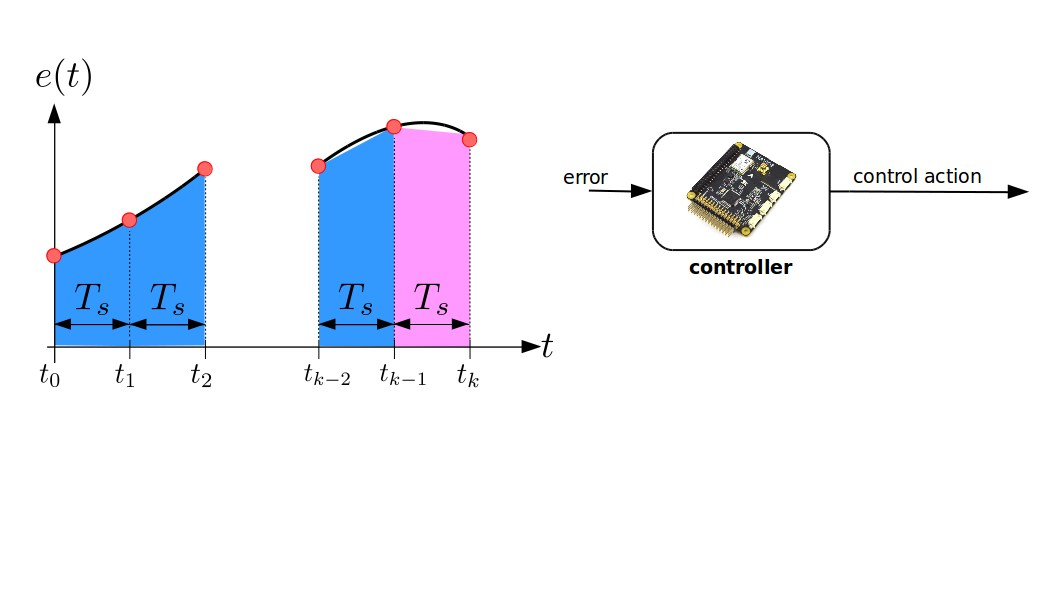
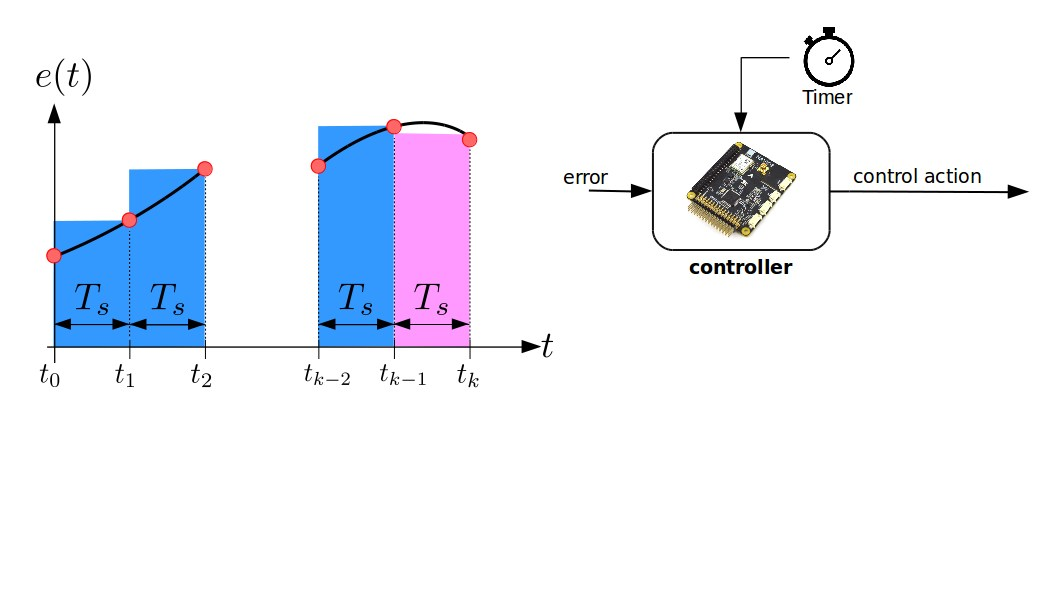
:hammer: updated course updated discrete-time PID imgs

diff --git a/index.html b/index.html
@@ -1,5 +1,10 @@
 <!doctype html>
-<!--
+<html lang="en">
+
+<head>
+  <meta charset="utf-8">
+
+  <!--
   Copyright 2019 Pantelis Sopasakis
 
   This work is licensed under the Attribution 4.0 International CC licence 
@@ -28,15 +33,11 @@
     for your intended use. For example, other rights such as publicity, privacy, or moral 
     rights may limit how you use the material.
 
--->
-<html lang="en">
-
-<head>
-  <meta charset="utf-8">
+  -->
 
   <title>PID and its Software Implementation</title>
 
-  <meta name="viewport" content="width=device-width, initial-scale=1.0, maximum-scale=1.0, user-scalable=no">
+  <meta name="viewport" content="width=device-width">
 
   <link rel="stylesheet" href="lib/js/reveal/css/reveal.css">
   <link rel="stylesheet" href="lib/js/reveal/lib/css/zenburn.css">
@@ -60,9 +61,13 @@
     <div class="slides">
 
       <section>
+        <div style="margin-top: 2em"> </div>
         <h1>The PID Controller</h1>
         <div style="margin-top: 1em;text-align:center; color:var(--my_blue)">
           and its Software Implementation
+        </div>
+        <div style="margin-top: 2em;text-align:center; color:var(--my_lightgray)">
+          a gentle introduction
         </div>
         <div style="margin-top: 2em;text-align:center;">
           <a href="https://alphaville.github.io" target="blank" style="color:black; text-decoration: none">Pantelis
@@ -88,20 +93,20 @@
       <section data-background-image="img/shower.jpg" data-background-size="contain">
       </section>
 
-      <section data-background-image="img/shower.jpg" data-background-size="contain" data-background-opacity="var(--bck_opacity)">
-        <div style="margin-top: 10%; font-size:1.em; text-align: left; color: black">
+      <section data-background-image="img/shower.jpg" data-background-size="contain" data-background-opacity="var(--bck_opacity_high)">
+        <div style="margin-top: 10%; font-size:1.0em; text-align: left; color: black">
           Define (error) = (set point) - (measurement), that is
         </div>
-        <div style="margin-top: 1em; font-size:1.em; text-align: left; color: black">
+        <div style="margin-top: 1em; font-size:1.0em; text-align: left; color: black">
           $$e(t) = y^{\mathrm{sp}}(t) - y(t)$$
         </div>
-        <div style="margin-top: 1em; font-size:1.em; text-align: left; color: black">
+        <div style="margin-top: 1em; font-size:1.0em; text-align: left; color: black">
           If <span style="color:var(--my_green)">$e(t){}={}0$</span> (perfect!) $\Rightarrow$ enjoy!
         </div>
-        <div style="margin-top: 1em; font-size:1.em; text-align: left; color: black">
+        <div style="margin-top: 1em; font-size:1.0em; text-align: left; color: black">
           If <span style="color:var(--my_blue)">$e(t){}>{}0$</span> (too cold!) $\Rightarrow$ warm up
         </div>
-        <div style="margin-top: 1em; font-size:1.em; text-align: left; color: black">
+        <div style="margin-top: 1em; font-size:1.0em; text-align: left; color: black">
           If <span style="color:var(--my_red)">$e(t) {}&lt;{} 0$</span> (too hot!) $\Rightarrow$ cool down
         </div>
       </section>
@@ -110,26 +115,34 @@
       <section data-background-image="img/car.jpg" data-background-size="contain">
       </section>
 
-      <section data-background-image="img/car.jpg" data-background-size="contain" data-background-opacity="var(--bck_opacity)">
-        <div style="margin-top: 10%; font-size:1.em; text-align: left; color: black">
+      <section data-background-image="img/car.jpg" data-background-size="contain" data-background-opacity="var(--bck_opacity_high)">
+        <div style="margin-top: 10%; font-size:1.0em; text-align: left; color: black">
           Define (error) = (set point) - (measurement), that is
         </div>
-        <div style="margin-top: 1em; font-size:1.em; text-align: left; color: black">
+        <div style="margin-top: 1em; font-size:1.0em; text-align: left; color: black">
           $$e(t) = y^{\mathrm{sp}}(t) - y(t)$$
         </div>
-        <div style="margin-top: 1em; font-size:1.em; text-align: left; color: black">
+        <div style="margin-top: 1em; font-size:1.0em; text-align: left; color: black">
           If <span style="color:var(--my_green)">$e(t){}={}0$</span> (perfect!) $\Rightarrow$ keep going!
         </div>
-        <div style="margin-top: 1em; font-size:1.em; text-align: left; color: black">
+        <div style="margin-top: 1em; font-size:1.0em; text-align: left; color: black">
           If <span style="color:var(--my_blue)">$e(t){}>{}0$</span> (too slow!) $\Rightarrow$ speed up
         </div>
-        <div style="margin-top: 1em; font-size:1.em; text-align: left; color: black">
+        <div style="margin-top: 1em; font-size:1.0em; text-align: left; color: black">
           If <span style="color:var(--my_red)">$e(t) {}&lt;{} 0$</span> (too fast!) $\Rightarrow$ slow down
         </div>
       </section>
 
-      <section data-background-image="img/airplane.jpg" data-background-size="contain">
+      <section>
+        <section data-background-image="img/track.jpg" data-background-size="contain">
+        </section>
+        <section data-background-image="img/airplane.jpg" data-background-size="contain">
+        </section>
       </section>
+
+
+      <!-- 
+      -->
 
       <!-- 
         
@@ -144,8 +157,6 @@
         </div>
       </section>
 
-      <section data-background-image="img/track.jpg" data-background-size="contain">
-      </section>
 
       <section data-background-video="mov/P/p-concept.mp4" data-background-video-loop="loop" data-background-size="contain"
         data-background-video-muted="true">
@@ -157,12 +168,12 @@
         <div style="margin-top: 20%; font-size:2em; color:black; text-align:center;">
           Steering is <span style="color:var(--my_red)">proportional</span> to <span style="color:var(--my_red)">error</span>
         </div>
-        </span>
-        <span class="fragment fade-up" data-fragment-index="2" style="position:absolute; margin-left: auto; margin-right: auto; left: 0; right: 0;">
+
+        <div class="fragment fade-up" data-fragment-index="2" style="position:absolute; margin-left: auto; margin-right: auto; left: 0; right: 0;">
           <div style="margin-top: 5%; font-size:1.8em; color:black; text-align:center;">
             $$u(t) = K_p e(t)$$
           </div>
-        </span>
+        </div>
       </section>
 
       <section data-background-video="mov/P/P_K0.01.mp4" data-background-video-loop="loop" data-background-size="contain"
@@ -357,10 +368,13 @@
       <section data-background-video="mov/PID/PID_offset_noint.mp4" data-background-video-loop="loop"
         data-background-size="contain" data-background-video-muted="true" data-background-opacity="var(--bck_opacity)">
         <div style="margin-top: 10%; font-size:2em; color:black; text-align:center;">
-          Offset = 0.8m
+          Offset = $ \lim_{t\to\infty} e(t)$ = 0.8m
         </div>
-        <div class="fragment" style="margin-top: 1em; font-size:1em; color:black; text-align:center;">
-          Define <span style="color:var(--my_red)">$I(t) = \int_0^t e(\tau)\mathrm{d}\tau$</span>
+        <div class="fragment" style="margin-top: 2em; font-size:1em; color:black; text-align:center;">
+          We must eliminate the offset!
+        </div>
+        <div class="fragment" style="margin-top: 2em; font-size:1em; color:black; text-align:center;">
+          Define <span style="color:var(--my_green)">$I(t) = \int_0^t e(\tau)\mathrm{d}\tau$</span>
         </div>
       </section>
 
@@ -381,9 +395,9 @@
       <section data-background-video="mov/PID/PID_offset_int.mp4" data-background-video-loop="loop"
         data-background-size="contain" data-background-video-muted="true" data-background-opacity="var(--bck_opacity)">
         <div style="margin-top: 15%; font-size:1.5em; color:black; text-align:center;">
-          Let's plug the <span style="color:var(--my_red)">integral</span> into the controller...
+          Let's plug the <span style="color:var(--my_green)">integral</span> into the controller...
         </div>
-        <div style="margin-top: 1em; font-size:1.5em; color:black; text-align:center;">
+        <div style="margin-top: 1.5em; font-size:1.5em; color:black; text-align:center;">
           $u(t)$ ${}={}$ <span style="color:var(--my_lightblue)">$K_p e(t)$</span> ${}+{}$ <span style="color:var(--my_red)">$K_d
             \dot{e}(t)$</span> ${}+{}$ <span style="color:var(--my_green)">$K_i I(t)$</span>
         </div>
@@ -426,10 +440,20 @@
         </div>
       </section>
 
-      <section data-background-image="img/discrete3.jpg" data-background-size="contain">
-        <div style="font-size:1.0em; text-align: left; color: magenta; margin-top: 50%">
-          $$\int_{t_{k-1}}^{t_k}e(\tau)\mathrm{d}\tau \approx T_s e(t_k)$$
-        </div>
+      <section>
+        <section data-background-image="img/discrete3.jpg" data-background-size="contain">
+          <div style="font-size:1.0em; text-align: left; color: magenta; margin-top: 50%">
+            $$\int_{t_{k-1}}^{t_k}e(\tau)\mathrm{d}\tau \approx T_s e(t_k)$$
+          </div>
+        </section>
+        <section data-background-image="img/discrete3b.jpg" data-background-size="contain">
+          <div style="font-size:1.0em; text-align: center; color: magenta; margin-top: 50%">
+            $$\int_{t_{k-1}}^{t_k}e(\tau)\mathrm{d}\tau \approx \tfrac{T_s}{2} (e(t_k) - e(t_{k-1})$$
+          </div>
+          <div style="font-size:0.5em; text-align: center; color: black; margin-top: 1em">
+            (See Homework...)
+          </div>
+        </section>
       </section>
 
       <section data-background-image="img/discrete5.jpg" data-background-size="contain">
@@ -438,7 +462,27 @@
         </div>
       </section>
 
-      <section>
+      <section data-transition="none">
+        <h1>Discrete-time PID</h1>
+        <div style="margin-top: 10%; font-size:1.0em; text-align: left; color: black">
+          Discrete-time PID controller
+        </div>
+        <div style="font-size:1.0em; text-align: left; color: black">
+          $\begin{align}u(t_k) ={}& \underbrace{K_p e(t_k)}_{\text{Prop.}}
+          +
+          \underbrace{K_d \frac{e(t_k) - e(t_{k-1})}{T_s}}_{\text{Deriv. Approx.}}
+          +
+          \underbrace{
+          K_i
+          \sum_{i=0}^{k}
+          T_s e(t_i)
+          }_{\text{Integral Approx.}}
+          \end{align}$
+        </div>
+
+      </section>
+
+      <section data-transition="none">
         <h1>Discrete-time PID</h1>
         <div style="margin-top: 10%; font-size:1.0em; text-align: left; color: black">
           Discrete-time PID controller
@@ -460,7 +504,7 @@
       <section>
         <h1>PID implementation</h1>
         <div style="margin-top: 2.2em">
-          <pre style="width:80%; padding: 10px; height: 100%; font-size:0.6em"><code data-trim data-noescape>
+          <pre style="width:80%; padding: 15px; height: 100%; font-size:0.6em"><code data-trim data-noescape>
             <span class="code_comment">/* PID implementation (pseudocode) */</span>          
             previous_error = 0.0, sum_error = 0.0;
   
@@ -486,7 +530,7 @@
 
 
       <section>
-        <div align="center" style="margin-top: 10%">
+        <div style="margin-top: 10%; text-align: center">
           <img src="img/quizz.png" alt="Quizz Time" />
         </div>
       </section>
@@ -504,7 +548,7 @@
           transition: 'slide', // none/fade/slide/convex/concave/zoom
           transitionSpeed: 'fast', // default/fast/slow
           //backgroundTransition: 'fade', // none/fade/slide/convex/concave/zoom
-          controls: false,
+          controls: true,
           center: false,
           touch: true,
           slideNumber: false,
@@ -527,11 +571,7 @@
       </script>
 
       <!-- Formatting bottom bar and logo -->
-      <script type="text/javascript">
-        /* some JS for ...
-        *    - placing (in the right size) the bottom bar
-        *    - placing the small KUL logo
-        */
+      <!-- <script>
         function setBarProperties() {
           // var snums = document.getElementsByClassName('slide-number')[0];
           var logo = document.getElementById('logo-container');
@@ -554,13 +594,15 @@
         window.onload = setBarProperties;
         window.onresize = setBarProperties;
         window.onkeydown = setBarProperties;
-      </script>
+      </script> -->
 
       <!-- SVG injector script -->
-      <script src="lib/js/svginjector/svg-injector.js"></script>
+      <!-- <script src="lib/js/svginjector/svg-injector.js"></script>
       <script>
         SVGInjector(document.querySelectorAll('img.inject-svg'));
-      </script>
+      </script> -->
+    </div>
+  </div>
 </body>
 
 </html>

diff --git a/lib/css/presentation.css b/lib/css/presentation.css
@@ -22,8 +22,10 @@
 /* These are the official KUL colors, see KUL style guide. */
 :root {
   --bck_opacity: 0.15;
+  --bck_opacity_high: 0.05;
   --my_blue: rgb( 25, 94, 175);
   --my_red: rgb( 217, 26, 40);
+  --my_orange: rgb(236, 70, 19);
   --my_green: rgb(117, 162, 54);
   --my_lightgreen: rgb(182, 233, 116);
   --my_lightblue: rgb(117, 170, 235);
@@ -90,13 +92,17 @@ body {
 
 /* Another heading, smaller and black */
 .reveal h2 {
-  font-size: 1.1em;
-  margin: 5px 0 15px 0;
+  color: var(--my_blue);
+/*  font-size: 1.6em;*/
+  font-size:1.7em;
+  text-align: center;
+  margin: 0 0 10px 0;
+  padding: 10px 10px;
 }
 
 /* Increase intentation of lists */
 .reveal ul, .reveal ol, .reveal dl {
-  margin-left: 2em;
+  margin-left: 1em;
 }
 
 /* Adapt style of slide numbers */
@@ -119,6 +125,26 @@ body {
   margin: 0px;
   padding: 0px;
 }
+
+.reveal .bold {
+  font-weight: bold;
+}
+
+.reveal .italix {
+  font-style: italic;
+}
+
+.reveal .footnote {	
+	padding-bottom: 7px;
+	padding-top: 5px;
+  text-align: left;
+	bottom: 0px;
+  width: 100%;
+  position: fixed;
+  font-size: 0.4em;
+  color: var(--my_gray);
+}
+
 
 /* ADDITIONAL STYLES <<<<<<<<<<<<<<<<<<<<<<<<<<<<<<<<<<<<<<<<<<<<<<<<<<<<<<<< */
 
